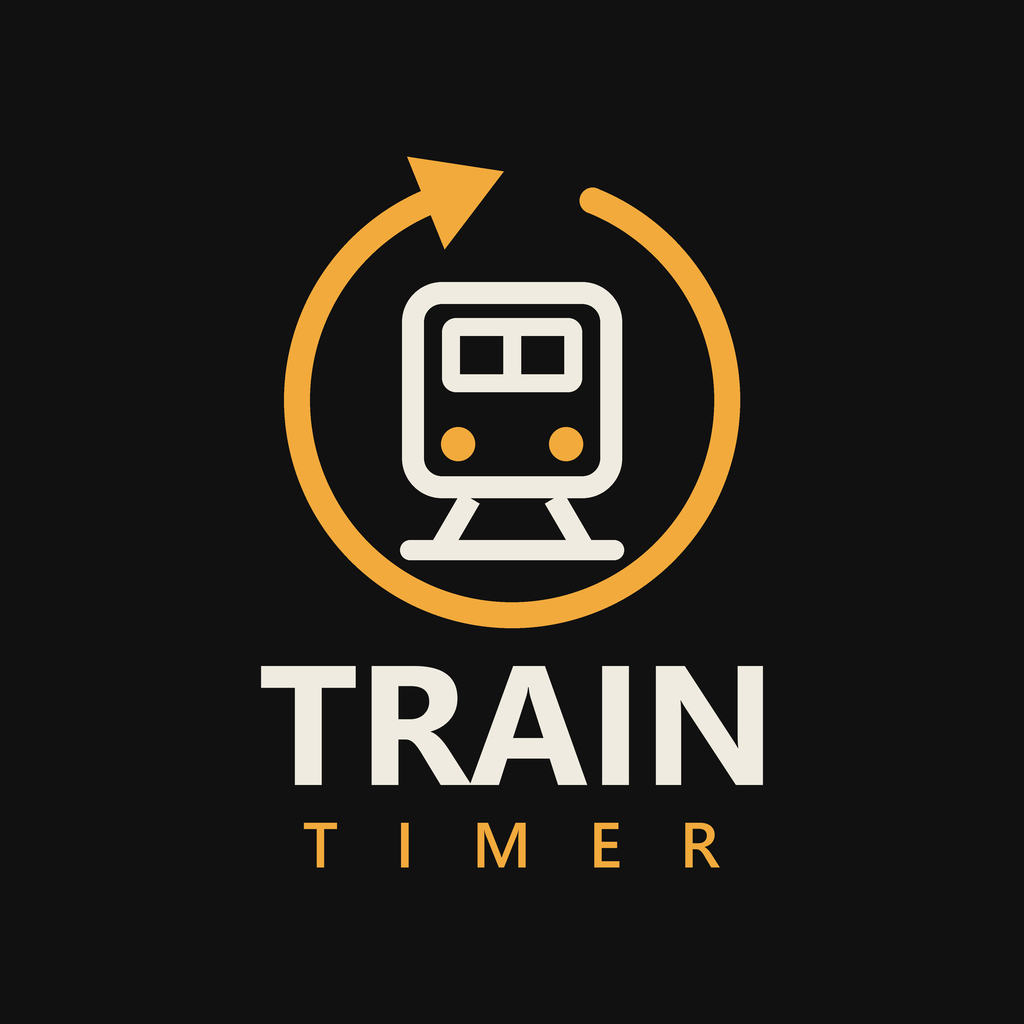
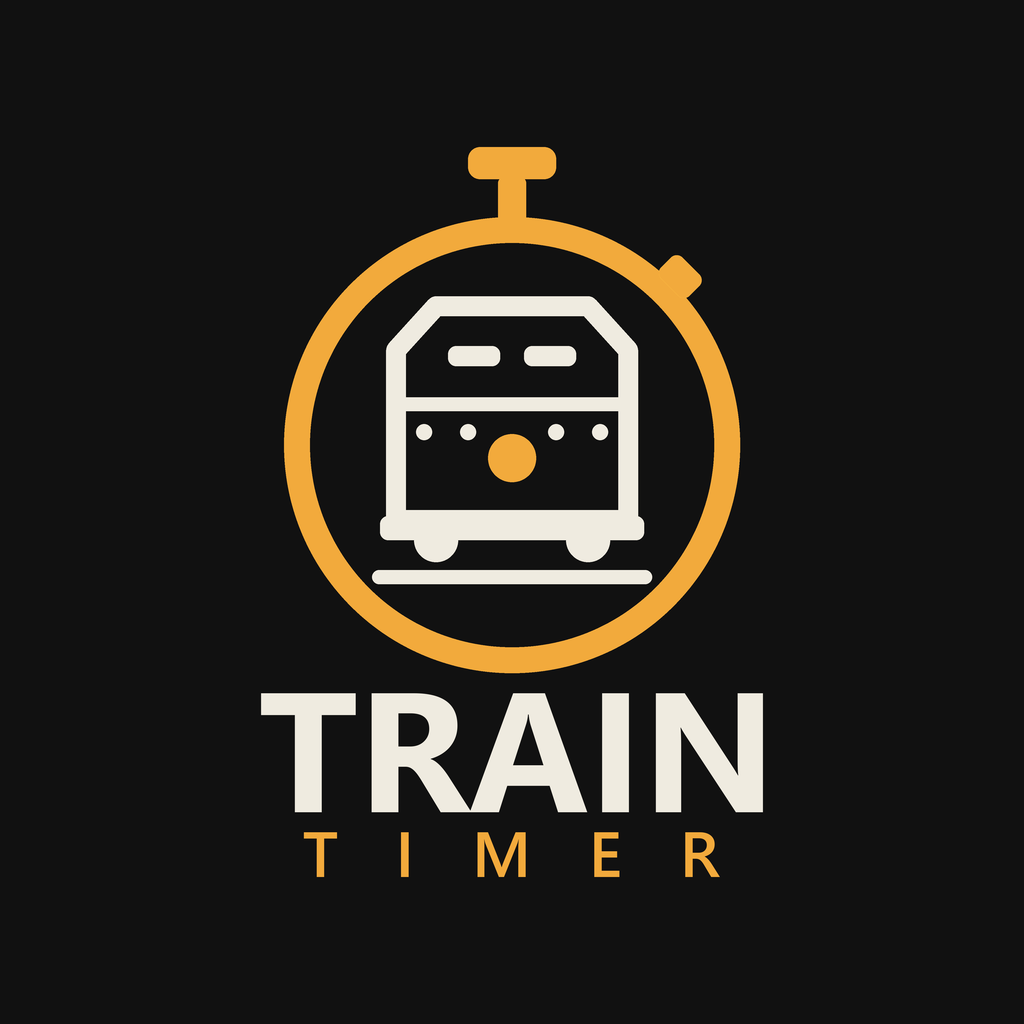
Thumbnail: armored locomotive in a stopwatch

Changed region(s): [[0.25, 0.125, 0.75, 0.875], [0.7188, 0.625, 0.75, 0.6875]]

diff --git a/tools/thumbnail.py b/tools/thumbnail.py
@@ -25,36 +25,34 @@ def main():
     img = Image.new("RGB", (W, W), BG)
     d = ImageDraw.Draw(img)
 
-    # clockwise countdown arc with an arrow head, like a timer running down
-    cx, cy, r, stroke = p(512), p(400), p(228), p(26)
-    gap_start, gap_end = 292, 248  # the arc runs clockwise from gap_start round to gap_end
-    d.arc([cx - r, cy - r, cx + r, cy + r], start=gap_start, end=gap_end + 360, fill=ORANGE, width=stroke)
-    a = math.radians(gap_start)
-    x, y = cx + (r - stroke / 2) * math.cos(a), cy + (r - stroke / 2) * math.sin(a)
-    d.ellipse([x - stroke / 2, y - stroke / 2, x + stroke / 2, y + stroke / 2], fill=ORANGE)
-    a = math.radians(gap_end)
-    tip_base = (cx + (r - stroke / 2) * math.cos(a), cy + (r - stroke / 2) * math.sin(a))
-    tangent = (-math.sin(a), math.cos(a))  # direction of travel when going clockwise
-    normal = (math.cos(a), math.sin(a))
-    head_len, head_half = p(84), p(50)
-    tip_base = (tip_base[0] - tangent[0] * p(6), tip_base[1] - tangent[1] * p(6))  # overlap the arc end so no gap shows
-    tip = (tip_base[0] + tangent[0] * head_len, tip_base[1] + tangent[1] * head_len)
-    left = (tip_base[0] + normal[0] * head_half, tip_base[1] + normal[1] * head_half)
-    right = (tip_base[0] - normal[0] * head_half, tip_base[1] - normal[1] * head_half)
-    d.polygon([tip, left, right], fill=ORANGE)
+    # stopwatch dial with its crown and side button
+    cx, cy, r, stroke = p(512), p(445), p(228), p(26)  # the middle of the train, rail included
+    d.ellipse([cx - r, cy - r, cx + r, cy + r], outline=ORANGE, width=stroke)
+    top = cy - r
+    d.rounded_rectangle([cx - p(14), top - p(40), cx + p(14), top + p(12)], radius=p(6), fill=ORANGE)
+    d.rounded_rectangle([cx - p(44), top - p(70), cx + p(44), top - p(38)], radius=p(12), fill=ORANGE)
+    b = math.radians(-45)
+    bx, by = cx + (r + p(10)) * math.cos(b), cy + (r + p(10)) * math.sin(b)
+    button = Image.new("RGBA", (p(90), p(90)), (0, 0, 0, 0))
+    ImageDraw.Draw(button).rounded_rectangle([p(25), p(30), p(65), p(60)], radius=p(8), fill=ORANGE)
+    button = button.rotate(-45, resample=Image.BICUBIC)
+    img.paste(button, (int(bx - p(45)), int(by - p(45))), button)
 
-    # front of a locomotive on its rails
-    line = p(22)
-    x0, y0, x1, y1 = p(402), p(282), p(622), p(498)
-    d.rounded_rectangle([x0, y0, x1, y1], radius=p(40), outline=CREAM, width=line)
-    d.rounded_rectangle([p(442), p(318), p(582), p(392)], radius=p(14), outline=CREAM, width=p(18))
-    d.line([p(512), p(318), p(512), p(392)], fill=CREAM, width=p(18))
-    for hx in (p(458), p(566)):
-        r_light = p(17)
-        d.ellipse([hx - r_light, p(444) - r_light, hx + r_light, p(444) + r_light], fill=ORANGE)
-    d.line([p(470), p(498), p(442), p(546)], fill=CREAM, width=line)
-    d.line([p(554), p(498), p(582), p(546)], fill=CREAM, width=line)
-    d.rounded_rectangle([p(400), p(540), p(624), p(560)], radius=p(10), fill=CREAM)
+    # armored locomotive head on: chamfered armor plate, vision slits, one headlight, buffer beam, rails
+    line = p(20)
+    # the outline starts mid-edge so the closing joint is straight and leaves no notch at a corner
+    body = [(p(512), p(520)), (p(396), p(520)), (p(396), p(350)), (p(436), p(306)), (p(588), p(306)), (p(628), p(350)), (p(628), p(520))]
+    d.line(body + [body[0]], fill=CREAM, width=line, joint="curve")
+    for sx in ((p(448), p(500)), (p(524), p(576))):
+        d.rounded_rectangle([sx[0], p(346), sx[1], p(366)], radius=p(8), fill=CREAM)
+    d.line([p(396), p(404), p(628), p(404)], fill=CREAM, width=p(14))
+    for rx in (p(424), p(468), p(556), p(600)):
+        d.ellipse([rx - p(8), p(432) - p(8), rx + p(8), p(432) + p(8)], fill=CREAM)
+    d.ellipse([p(512) - p(24), p(458) - p(24), p(512) + p(24), p(458) + p(24)], fill=ORANGE)
+    d.rounded_rectangle([p(380), p(516), p(644), p(540)], radius=p(8), fill=CREAM)
+    for wx in (p(436), p(588)):
+        d.ellipse([wx - p(22), p(540) - p(22), wx + p(22), p(540) + p(22)], fill=CREAM)
+    d.rounded_rectangle([p(372), p(570), p(652), p(584)], radius=p(7), fill=CREAM)
 
     # title and subtitle are drawn on their own layer and centred by their visible ink, since glyph boxes
     # include side bearings that push text off centre

diff --git a/release/notes.md b/release/notes.md
@@ -1,0 +1,10 @@
+**zezinho's Train Timer 1.0.0**
+
+Shows when the armored train arrives and when it leaves (Reserve and Lighthouse).
+
+- On the train's row of the extraction list, the timer counts down to the arrival, then to the departure, and the exit name says "(arrives in)", "(leaves in)" or "(has left)".
+- Optional on-screen line with the same times, off by default.
+- English and Portuguese.
+- Client only.
+
+**Install:** extract the zip into your game folder. With Fika, every player who wants the times needs the mod.
